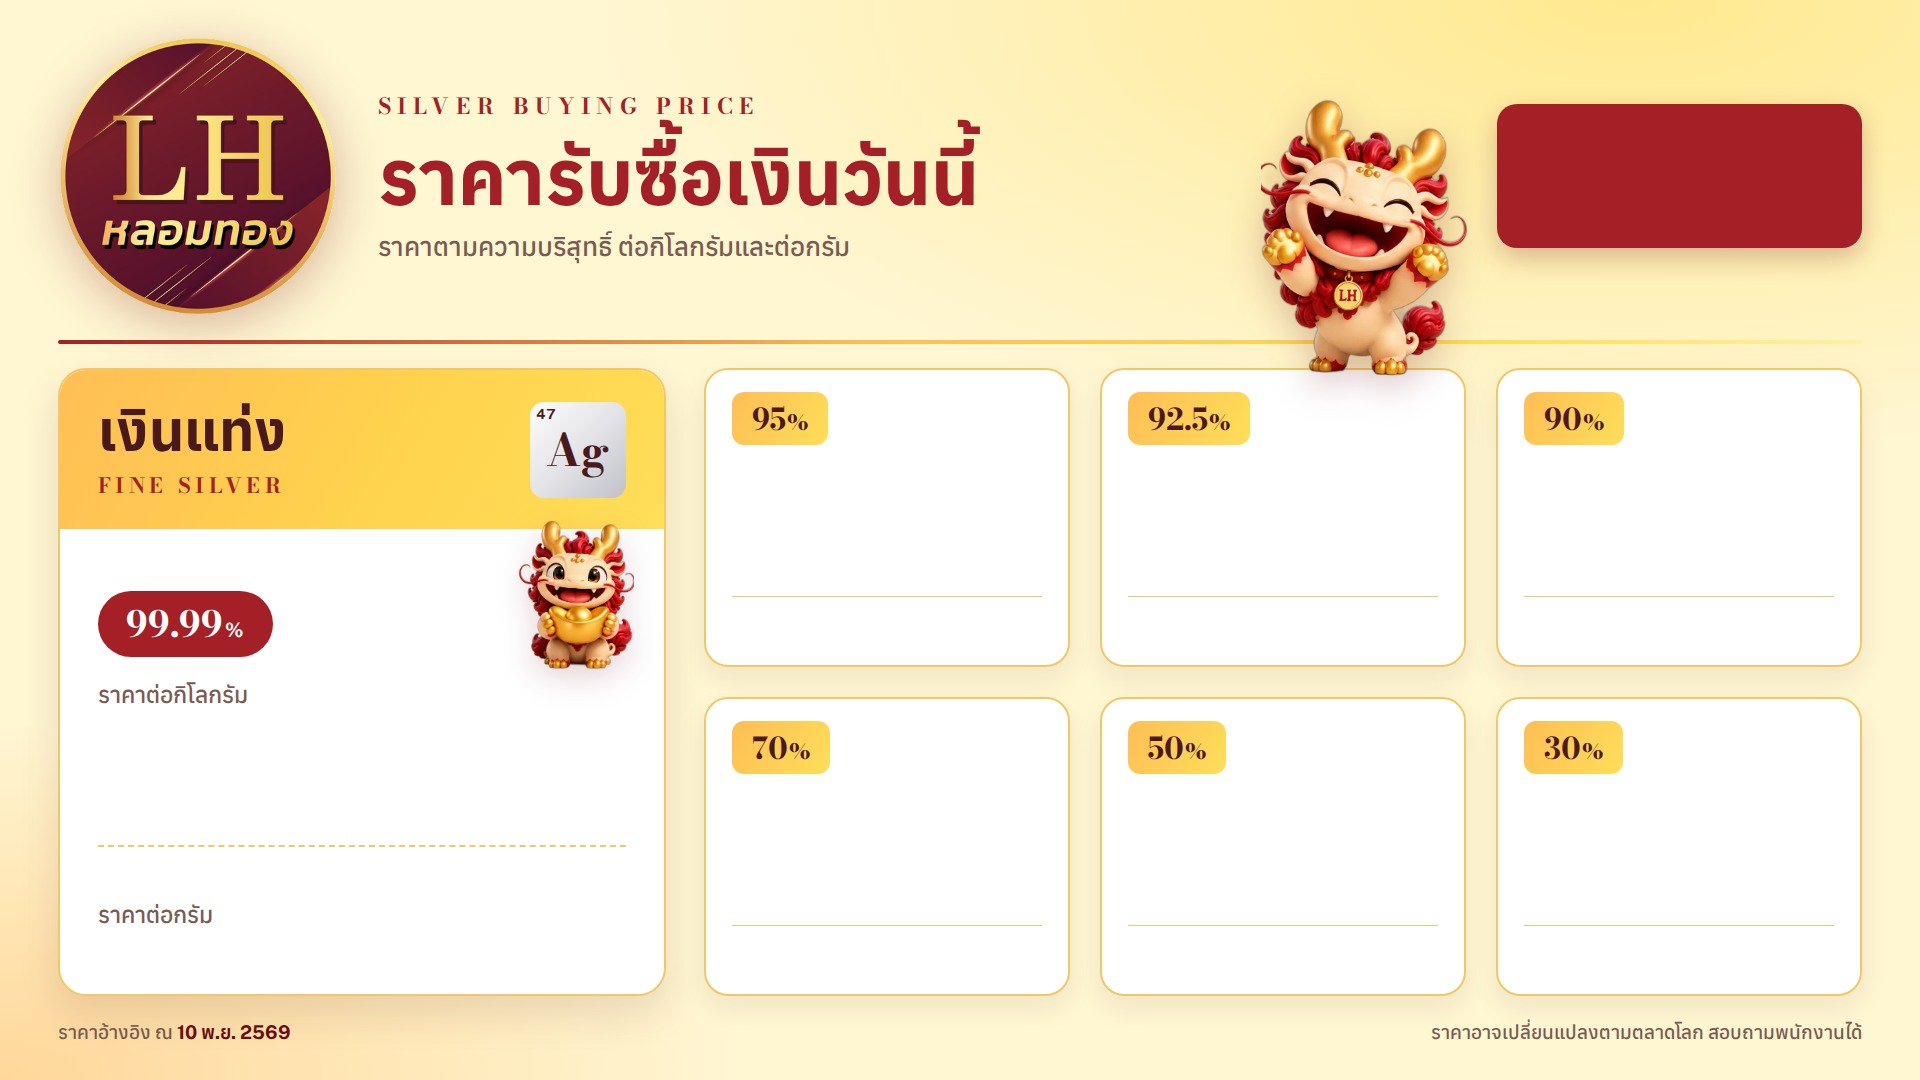
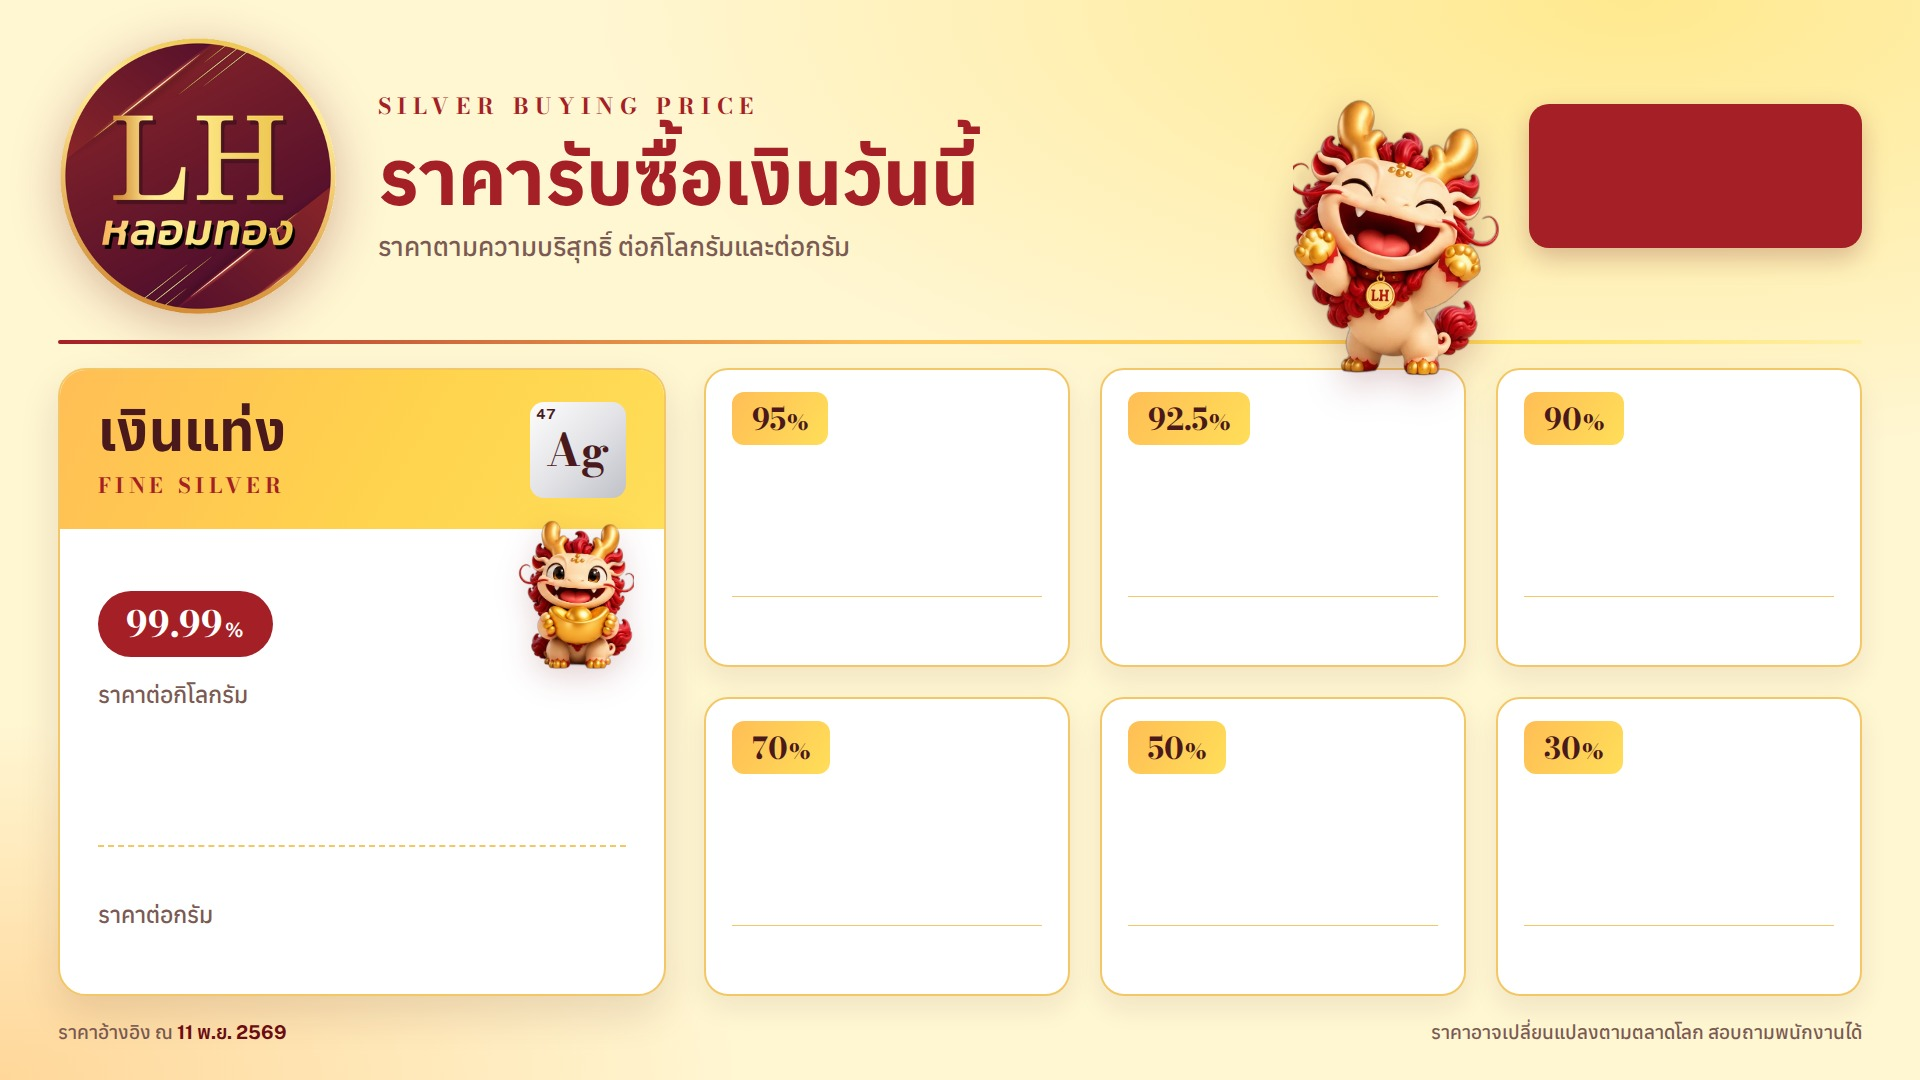
Update prices 2026-11-11

Changed region(s): [[0.6562, 0.0917, 0.8125, 0.3667], [0.0938, 0.9472, 0.1562, 0.9778]]

diff --git a/board.html b/board.html
@@ -219,15 +219,15 @@ html{-webkit-text-size-adjust:100%;text-size-adjust:100%}
      ราคาแต่ละเกรด = ราคาเงินหลังหัก × เปอร์เซ็นต์ (99.99% ใช้ราคาเต็ม)
    showSilver = เปิด/ปิดหน้าราคาเงิน, rotateSeconds = เปลี่ยนหน้าทุกกี่วินาที */
 const CONFIG = {
-  asOf: "10 พ.ย. 2569",
-  fx: 33.48,
+  asOf: "11 พ.ย. 2569",
+  fx: 33.55,
   discount: 0.20,
   rotateSeconds: 15,
   showSilver: true,
   metals: [
-    { th:"แพลตินัม",  en:"Platinum",  sym:"Pt", z:78, usdPerGram:50.5409 },
-    { th:"แพลเลเดียม", en:"Palladium", sym:"Pd", z:46, usdPerGram:32.9545 },
-    { th:"โรเดียม",    en:"Rhodium",   sym:"Rh", z:45, usdPerGram:278.1, discount:0.40 }
+    { th:"แพลตินัม",  en:"Platinum",  sym:"Pt", z:78, usdPerGram:49.9301 },
+    { th:"แพลเลเดียม", en:"Palladium", sym:"Pd", z:46, usdPerGram:32.858 },
+    { th:"โรเดียม",    en:"Rhodium",   sym:"Rh", z:45, usdPerGram:284.53, discount:0.40 }
   ],
   silver: { pricePerKg: 55000, grades: [95, 92.5, 90, 70, 50, 30] }
 };
